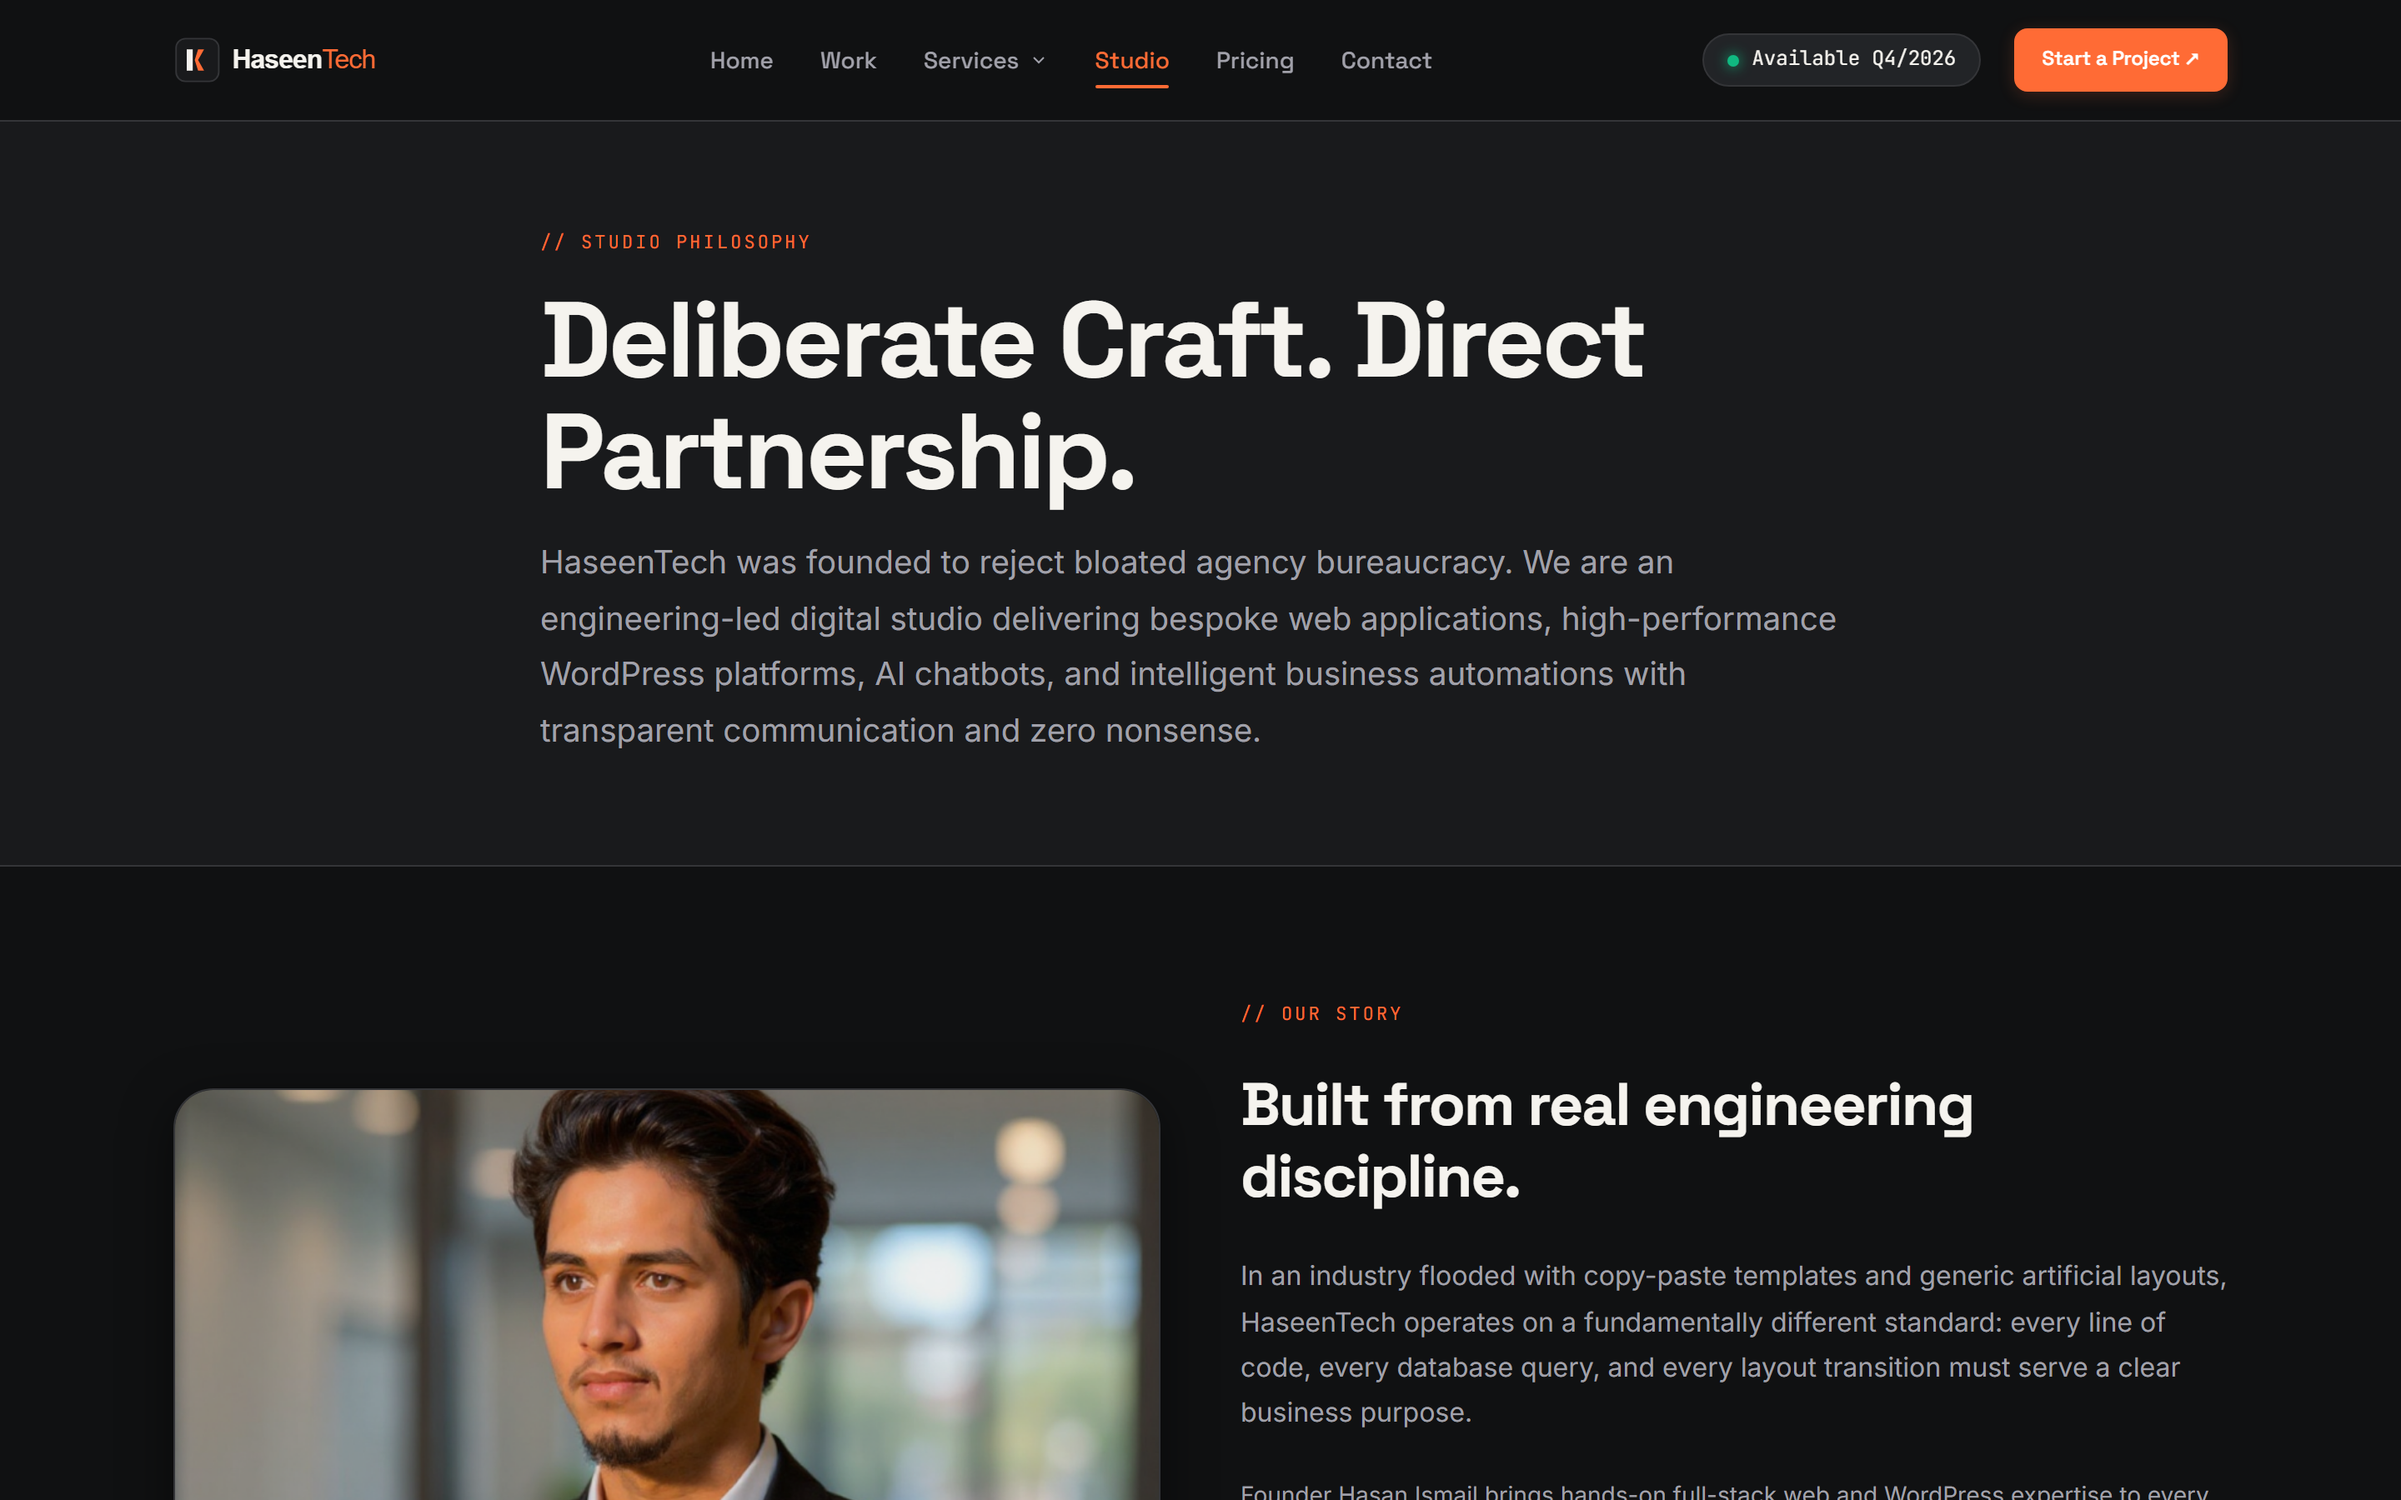
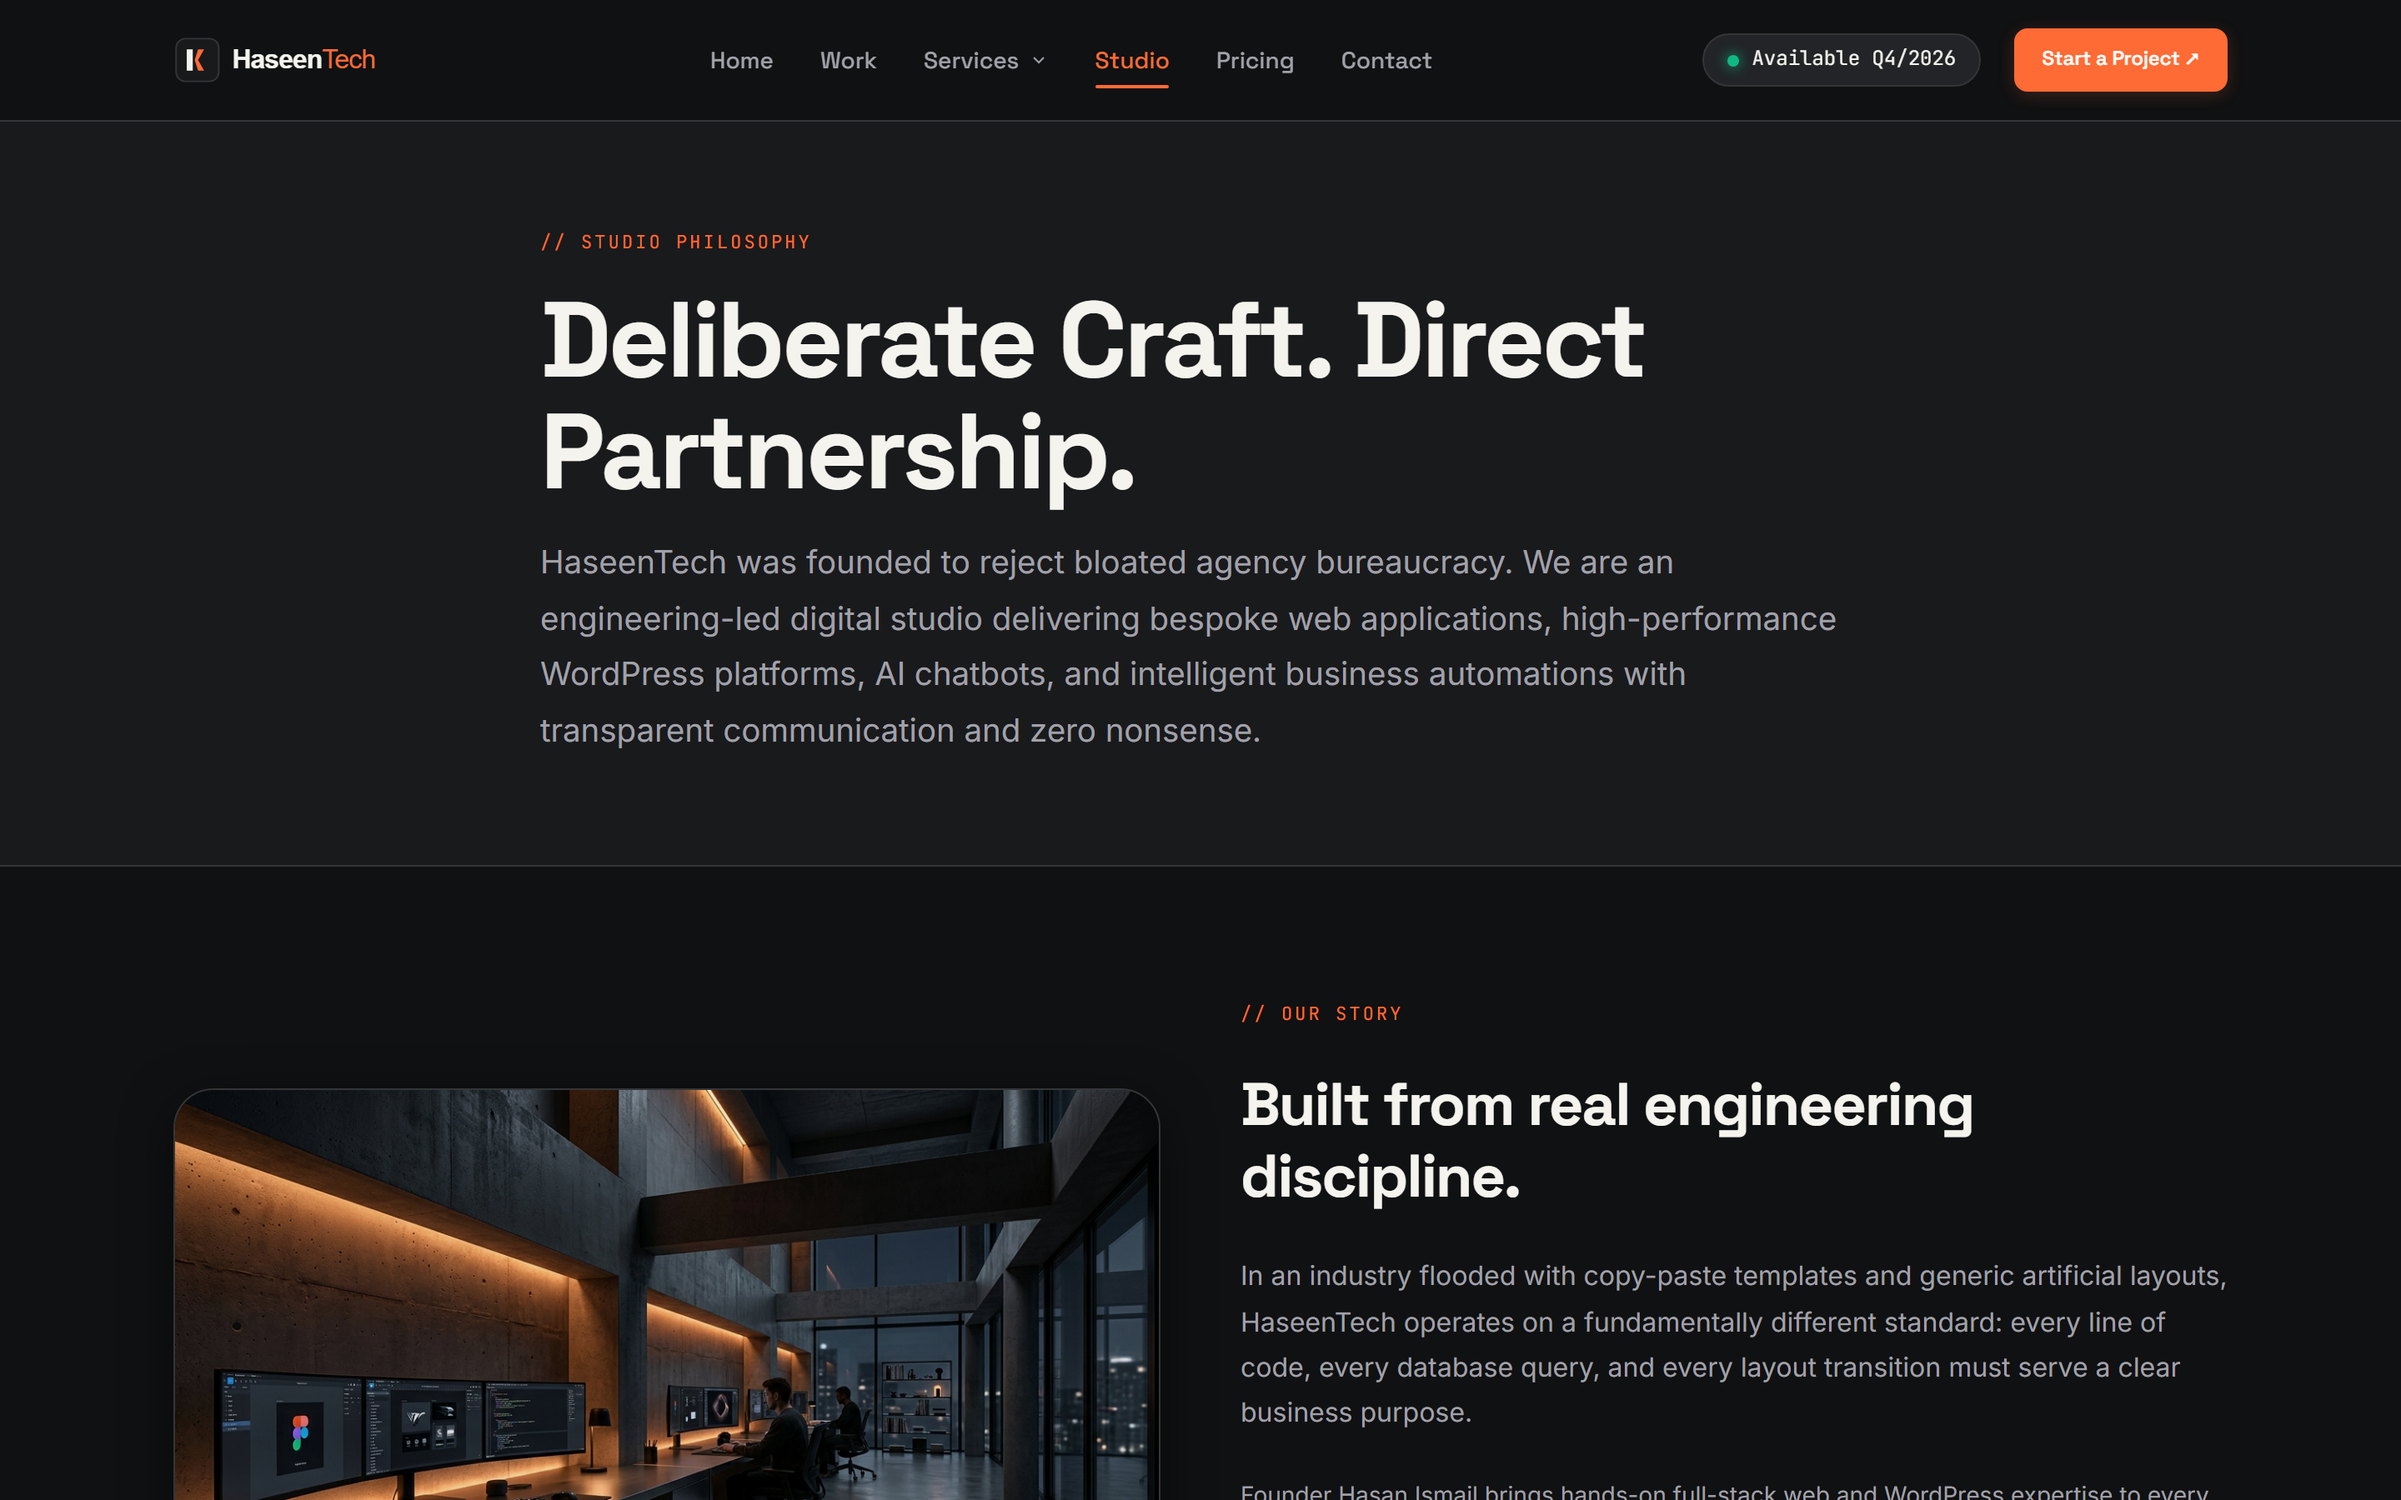
Restore studio environment photo on homepage and about page, keeping Hasan Ismail portrait in leadership section

Changed region(s): [[0.0625, 0.7156, 0.5, 1.0]]

diff --git a/about.html b/about.html
@@ -112,10 +112,10 @@
     <section class="section-pad" style="background: var(--color-obsidian);">
       <div class="container studio-grid">
         <div class="studio-photo-card">
-          <img src="assets/images/hasan-ismail.png" alt="Hasan Ismail — Founder &amp; Lead Web Developer at HaseenTech" width="800" height="800" style="object-position: center 15%;">
+          <img src="assets/images/studio-space.jpg" alt="HaseenTech Studio Environment" width="800" height="500">
           <div class="studio-photo-caption">
-            <span>HASAN ISMAIL — FOUNDER &amp; LEAD DEVELOPER</span>
-            <span class="micro-label-orange">KARACHI &middot; REMOTE GLOBALLY</span>
+            <span>KARACHI STUDIO BASE</span>
+            <span class="micro-label-orange">REMOTE PARTNERSHIPS GLOBALLY</span>
           </div>
         </div>
 

diff --git a/index.html b/index.html
@@ -477,10 +477,10 @@
     <section class="studio-philosophy-section">
       <div class="container studio-grid">
         <div class="studio-photo-card">
-          <img src="assets/images/hasan-ismail.png" alt="Hasan Ismail — Founder &amp; Lead Web Developer at HaseenTech" width="800" height="800" style="object-position: center 15%;">
+          <img src="assets/images/studio-space.jpg" alt="HaseenTech Engineering Studio Environment" width="800" height="500">
           <div class="studio-photo-caption">
-            <span>HASAN ISMAIL — FOUNDER &amp; LEAD DEVELOPER</span>
-            <span class="micro-label-orange">KARACHI &middot; REMOTE GLOBALLY</span>
+            <span>LOCATION: KARACHI, PAKISTAN</span>
+            <span class="micro-label-orange">CLIENTS: USA · UK · UAE · EU</span>
           </div>
         </div>
 
